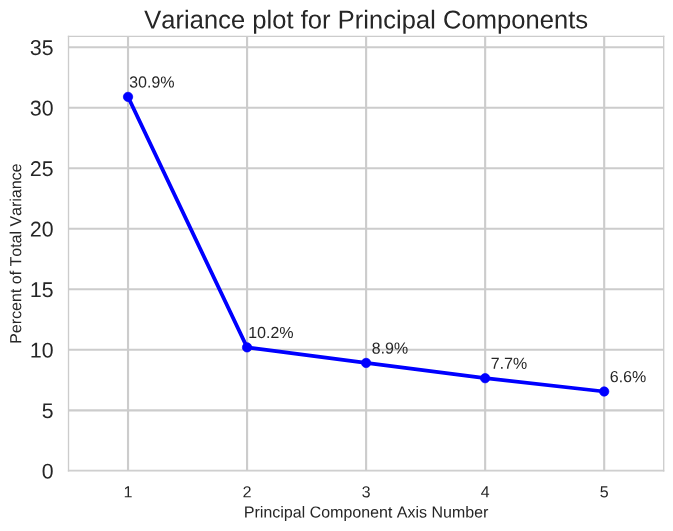
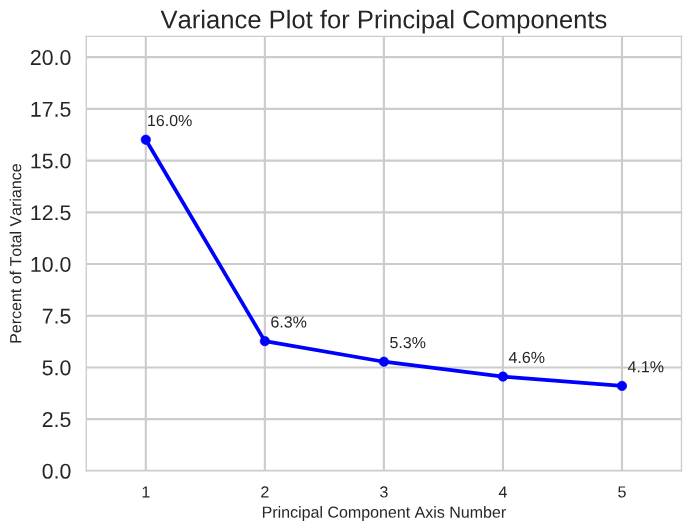
updated pca plots

diff --git a/README.md b/README.md
@@ -107,7 +107,7 @@ The final step in the pipeline is to merge all of the tables by an institution's
 
 There are 307244 students in the 2011 cohort across all institutions in the dataset. Of those, 209811 students received a bachelor's degree within 150% of normal time (*i.e.* 6 years). The bar graph below shows the racial breakdown of these students. A bar graph of racial distribution from the U.S. Census (2018 estimate) is shown for comparison.
 
-![img/completions-bar.png](img/completion-bar.png)
+![img/completion-bar.png](img/completion-bar.png)
 
 *Number of bachelor's degree completions across all institutions in the dataset. U.S. Census (2018 estimate): https://www.census.gov/quickfacts/fact/table/US/IPE120218*
 
@@ -130,7 +130,7 @@ Likewise, institutions that graduate a high percentage of non-recipients also gr
 ![img/correlation-ps.png](img/correlation-ps.png)
 
 ### Principal Component Analysis
-A principal component analysis was performed on the table of institutions to determine if there is some combination of features (called a principal component) which can separate high graduation rates from low graduation rates. The first principal component accounts for 30.9% of the total variance of the data in feature space. Subsequent axes account for 10.2% or less per axis.
+A principal component analysis was performed on the table of institutions to determine if there is some combination of features (called a principal component) which can separate high graduation rates from low graduation rates. The first principal component accounts for 16.0% of the total variance of the data in feature space. Subsequent axes account for 6.3% or less per axis.
 
 ![img/pca-scree.png](img/pca-scree.png)
 *Principal Component Analysis (PCA) variance plot*
@@ -139,17 +139,17 @@ Below is a series of scatterplot maps of each institution along the two most imp
 
 |  |  |
 |:-------------------------:|:-------------------------:|
-| ![img/pca-white.png](img/pca-white.png) |  ![img/pca-black.png](img/pca-black.png) |
-| ![img/pca-hispanic.png](img/pca-hispanic.png) |  ![img/pca-asian.png](img/pca-asian.png) |
- ![img/pca-2plus.png](img/pca-2plus.png) |
+| ![img/pca-white-grad.png](img/pca-white-grad.png) |  ![img/pca-black-grad.png](img/pca-black-grad.png) |
+| ![img/pca-hispanic-grad.png](img/pca-hispanic-grad.png) |  ![img/pca-asian-grad.png](img/pca-asian-grad.png) |
+ ![img/pca-2plus-grad.png](img/pca-2plus-grad.png) |
  ||| 
  *Principal Component Analysis (PCA) maps of graduation rates by race*
 
 
 |  |  |
 |:-------------------------:|:-------------------------:|
-| ![img/pca-pell.png](img/pca-pell.png) |  ![img/pca-ssl.png](img/pca-ssl.png) |
-| ![img/pca-nonrecipient.png](img/pca-nonrecipient.png) ||
+| ![img/pca-pell-grad.png](img/pca-pell-grad.png) |  ![img/pca-ssl-grad.png](img/pca-ssl-grad.png) |
+| ![img/pca-nonrecipient-grad.png](img/pca-nonrecipient-grad.png) ||
 |||
 *Principal Component Analysis (PCA) maps of graduation rates by Pell/SSL status*
 
@@ -158,21 +158,26 @@ When graduation rates of different races or grant/loan status are used as labels
 
 | With Laplace Smoothing | Without Laplace Smoothing |
 |:-------------------------:|:-------------------------:|
-| ![img/pca-white.png](img/pca-white.png) |  ![img/pca-white-nosm.png](img/pca-white-nosm.png) |
-| ![img/pca-2plus.png](img/pca-2plus.png) |  ![img/pca-2plus-nosm.png](img/pca-2plus-nosm.png)|
-| ![img/pca-asian.png](img/pca-asian.png) |  ![img/pca-asian-nosm.png](img/pca-asian-nosm.png)|
+| ![img/pca-white-grad.png](img/pca-white-grad.png) |  ![img/pca-white-grad-nosm.png](img/pca-white-grad-nosm.png) |
+| ![img/pca-2plus-grad.png](img/pca-2plus-grad.png) |  ![img/pca-2plus-grad-nosm.png](img/pca-2plus-grad-nosm.png)|
+| ![img/pca-asian-grad.png](img/pca-asian-grad.png) |  ![img/pca-asian-grad-nosm.png](img/pca-asian-grad-nosm.png)|
 |||
 *Principal Component Analysis (PCA) maps with and without Laplace smoothing*
 
 It makes sense that these two minority categories would be affected by smoothing since they have smaller counts than other race categories. 
 
-The principal component analysis class in `sklearn` utilizes singular value decomposition (SVD) to determine the principal component axes. SVD decomposes a matrix of institutions and their features into a multiplication of three separate matrices. The last of these matrices contains values that indicate how each feature loads onto each principal component. By looking at the values in the first row of this vector, we can get a general idea of which features are most important along the first principal component. Below is a table of the five features that load most onto the first principal component axis:
+The principal component analysis class in `sklearn` utilizes singular value decomposition (SVD) to determine the principal component axes. SVD decomposes a matrix of institutions and their features into a multiplication of three separate matrices. The last of these matrices contains values that indicate how each feature loads onto each principal component. By looking at the values in the first row of this vector, we can get a general idea of which features are most important along the first principal component. Below are the ten features that load most onto the first principal component axis:
 
 * average math 25th percentile
 * average math 75th percentile
 * average english 25th percentile
 * average english 75th percentile
 * percent of undergraduates awarded a Pell Grant
+* average net price for students awarded grant or scholarship aid
+* percent of applicants admitted
+* institution size: 10,000 to 20,000 
+* percent of undergraduates awarded finiancial aid (any source)
+* percent of students living on campus
 
 ## Modeling
 
@@ -192,16 +197,36 @@ Multicollinearity can be checked by calculating a variance inflation factor for 
 
 | Feature | Description | Variance Inflation Factor |
 |---------|-------------|---------------------------|
-| latitude | latitude of institution | 1.09 |
-| longitud | longitude of institution | 1.14 |
-| enrlft_pct | percent of enrolled students attending full time | 1.20 |
-| enrlt_pct | percent of accepted students enrolled | 1.29 |
-| admssn_pct | percent of applicants accepted | 1.42 |
-| en25 | average of normalized ACT English/SAT Verbal 25th percentile | 2.81 |
-| uagrntp | percent of students awarded financial aid (any source) | 1.84 |
-| upgrntp | percent of students awarded Pell Grants | 3.17 |
-| grntwf2_pct | percent of students living with family off campus 2016-17 | 1.44 |
-| grntof2_pct | percent of students living off campus (not with family) 2016-17  | 1.32 |
+| control_privnp | control: private, not-for-profit | 1.19 |
+| hloffer_psotmc | highest degree: post-masters certificate | 1.08 |
+| hloffer_postbc | higest degree: post-bachelors certificate | 1.05 |
+| hbcu_yes | is a HBCU | 1.35 |
+| locale_ctylrg | locale: city, large | 1.68 |
+| locale_ctysml | locale: city, small | 1.41 |
+| locale_ctymid | locale: city, midsize | 1.41 |
+| locale_twndst | locale: town, distant | 1.69 |
+| locale_rurfrg | locale: rural, fringe | 1.23 |
+| locale_twnrem | locale: town, remote | 1.39 |
+| locale_submid | locale: suburb, midsize | 1.14 |
+| locale_subsml | locale: suburb: small | 1.14 |
+| locale_twnfrg | locale: town, fringe | 1.17 |
+| locale_rurdst | locale: rural, distant | 1.13 |
+| locale_rurrem | locale: rural, remote | 1.09 |
+| instsize_1to5k | institution size: 1,000 to 4,999 | 2.25 |
+| instsize_5to10k | institution size: 5,000 to 9,999 | 1.92 |
+| instsize_10to20k | institution size: 10,000 to 19,999 | 1.61 |
+| instsize_gt20k | institution size: 20,000+ | 1.38 |
+| longitud | longitude of institution | 1.13 |
+| latitude | latitutde of institution | 1.19 |
+| admssn_pct | percent of applicants admitted | 1.73 | 
+| enrlt_pct | percent of admissions enrolled | 1.71 |
+| enrltft_pct | percent of enrolled students attending full time | 1.20 |
+| en25 | average of normalized ACT English/SAT Verbal 25th percentile | 3.50 |
+| uagrntp | percent of students awarded financial aid (any source) | 1.64 |
+| upgrntp | percent of students awarded Pell Grants | 3.08 |
+| npgrn2 | Average net price - students awarded grant or scholarship aid, 2016-17| 2.15 |
+| grntwf2_pct | percent of students living with family off campus 2016-17 | 1.61 |
+| grntof2_pct | percent of students living off campus (not with family) 2016-17  | 1.40 |
 
 Several of the percentage features are very different than a normal distribution. Percentages bunched near zero (enrlt_pct and grntwf2_pct), these were transformed by the function `log10(percent + 1)`. Percentages bunched near 100 (enrlft_pct, uagrntp, and grntof2_pct) were transformed by the function `log10(101-percent)`. 
 
